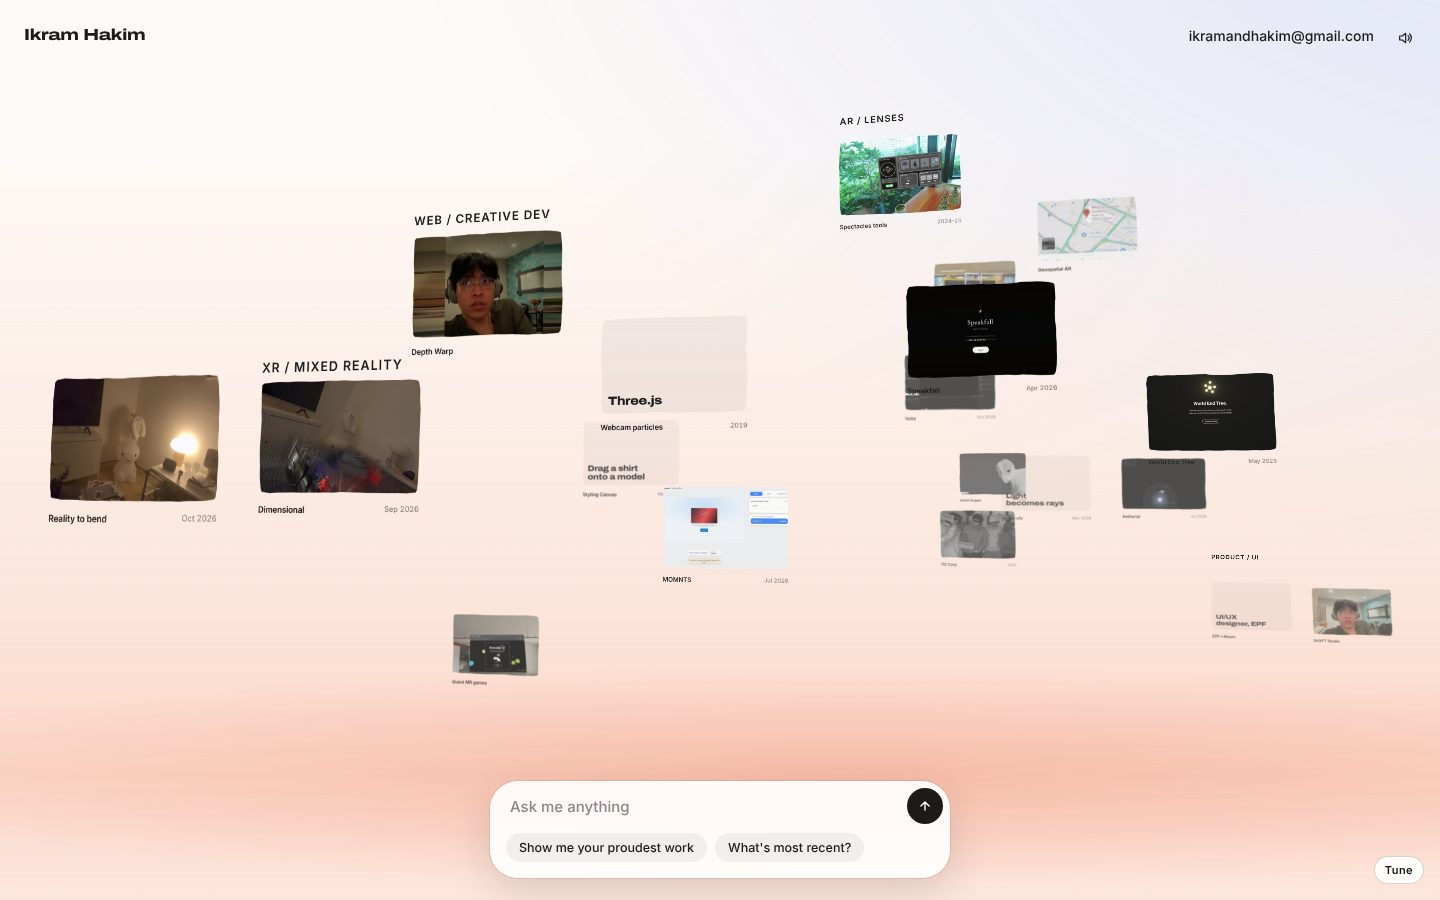
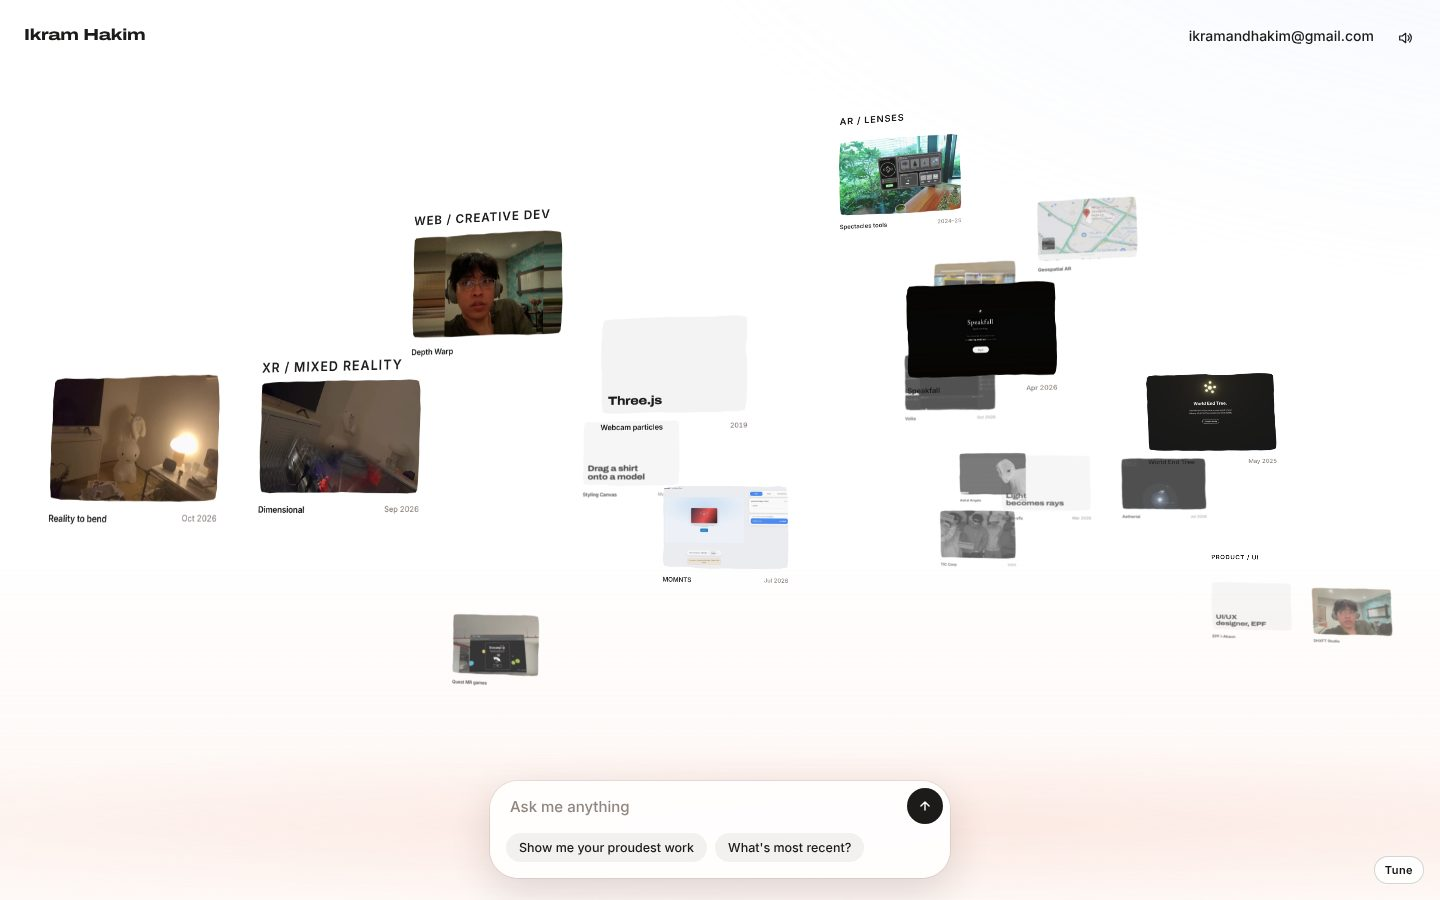
Pull the background back to white with a faint horizon glow
A strong colour across the frame read as a surface and flattened the space.
Canvas is now white; the sunset is only a soft glow low in the frame and a hint
of sky in one corner. Logged in making-of.

Claude-Session: https://claude.ai/code/session_01TgBAFiAjJzLHXtm6PaUK1k

diff --git a/app/js/settings.js b/app/js/settings.js
@@ -3,15 +3,15 @@
 // The Tune panel (D key, or ?debug) edits it.
 
 // Bumped when defaults change meaning, so stale saved values are dropped.
-const STORAGE_KEY = 'ikram-board-v5'
+const STORAGE_KEY = 'ikram-board-v6'
 const LEAN_QUERY = '(max-width: 768px), (pointer: coarse)'
 
 export const DEFAULTS = {
-  canvas: '#FEFAF7',
-  bloom1: '#FAD3C2',
-  bloom2: '#F5A994',
-  bloom3: '#CFD9F8',
-  bloomOpacity: 0.9,
+  canvas: '#FFFFFF',
+  bloom1: '#FBE3D8',
+  bloom2: '#F7C4B4',
+  bloom3: '#DCE4F8',
+  bloomOpacity: 0.55,
   cardStyle: 0,
   edge: 2.2,
   roomTilt: 9,
@@ -132,9 +132,9 @@ function rgba(hex, alpha) {
 // lean, so the horizon behaves like something very far away.
 function bloomGradient(s) {
   return [
-    `radial-gradient(60% 9% at 50% 74%, ${rgba(s.bloom2, 0.75)} 0%, ${rgba(s.bloom2, 0)} 100%)`,
-    `linear-gradient(to bottom, ${rgba(s.bloom1, 0)} 22%, ${rgba(s.bloom1, 0.55)} 58%, ${rgba(s.bloom1, 1)} 74%, ${rgba(s.bloom1, 0.5)} 86%, ${rgba(s.bloom1, 0.18)} 100%)`,
-    `radial-gradient(70% 60% at 94% -4%, ${rgba(s.bloom3, 0.8)} 0%, ${rgba(s.bloom3, 0)} 100%)`,
+    `radial-gradient(70% 7% at 50% 78%, ${rgba(s.bloom2, 0.6)} 0%, ${rgba(s.bloom2, 0)} 100%)`,
+    `linear-gradient(to bottom, ${rgba(s.bloom1, 0)} 55%, ${rgba(s.bloom1, 0.5)} 78%, ${rgba(s.bloom1, 0.25)} 100%)`,
+    `radial-gradient(60% 40% at 96% -6%, ${rgba(s.bloom3, 0.55)} 0%, ${rgba(s.bloom3, 0)} 100%)`,
   ].join(',')
 }
 

diff --git a/progress/index.html b/progress/index.html
@@ -5,7 +5,7 @@
   <meta name="viewport" content="width=device-width, initial-scale=1, viewport-fit=cover">
   <title>Ikram Hakim</title>
   <meta name="description" content="Ikram Hakim, creative technologist. AR, mixed reality and creative web work on an open board.">
-  <meta name="theme-color" content="#FEFAF7">
+  <meta name="theme-color" content="#FFFFFF">
   <link rel="preconnect" href="https://fonts.googleapis.com">
   <link rel="preconnect" href="https://fonts.gstatic.com" crossorigin>
   <link href="https://fonts.googleapis.com/css2?family=Archivo:wdth,wght@62..125,400..800&family=Inter:wght@400..700&display=swap" rel="stylesheet">

diff --git a/app/css/base.css b/app/css/base.css
@@ -4,7 +4,7 @@
 * { box-sizing: border-box; margin: 0; padding: 0; }
 
 :root {
-  --canvas: #FEFAF7;
+  --canvas: #FFFFFF;
   --paper: #FFFFFF;
   --ink: #1C1B1A;
   --muted: #8A827C;

diff --git a/making-of/LOG.md b/making-of/LOG.md
@@ -192,3 +192,11 @@ leaving their paintings on the world, like an artist displaying their art."
 Two things to hold every later choice against: the bar is a conversation, not
 a search box; the works are marks left by a hand, not products on a shelf.
 
+## 2026-11-15 · too much colour
+"The background colour is too much. I think this is why it feels flat, not an
+endless room." Agreed: a strong colour across the whole frame reads as a
+surface. The canvas is now pure white; the sunset is only a faint warm glow at
+the horizon and a hint of sky in one corner (bloom strength 0.55, was 0.9).
+Space is shown by the works' size, focus and the room angle, not by paint.
+Saved settings reset (v6).
+
